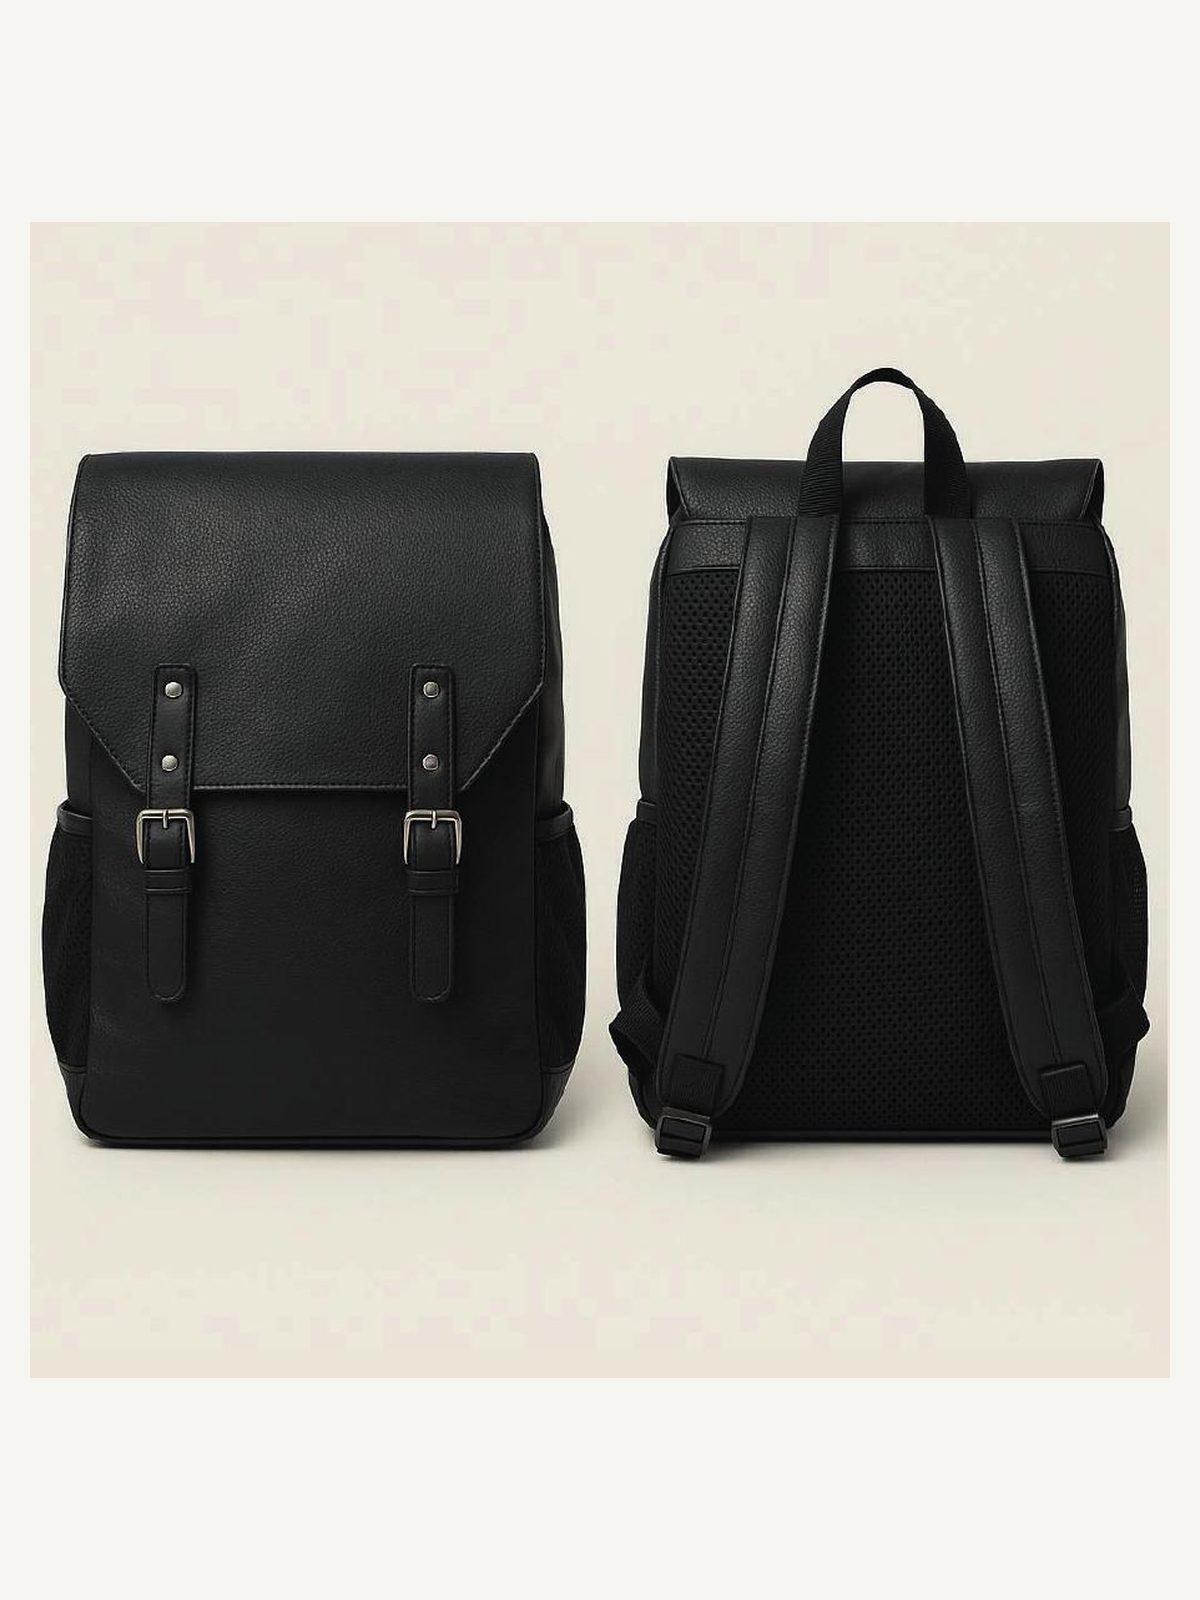
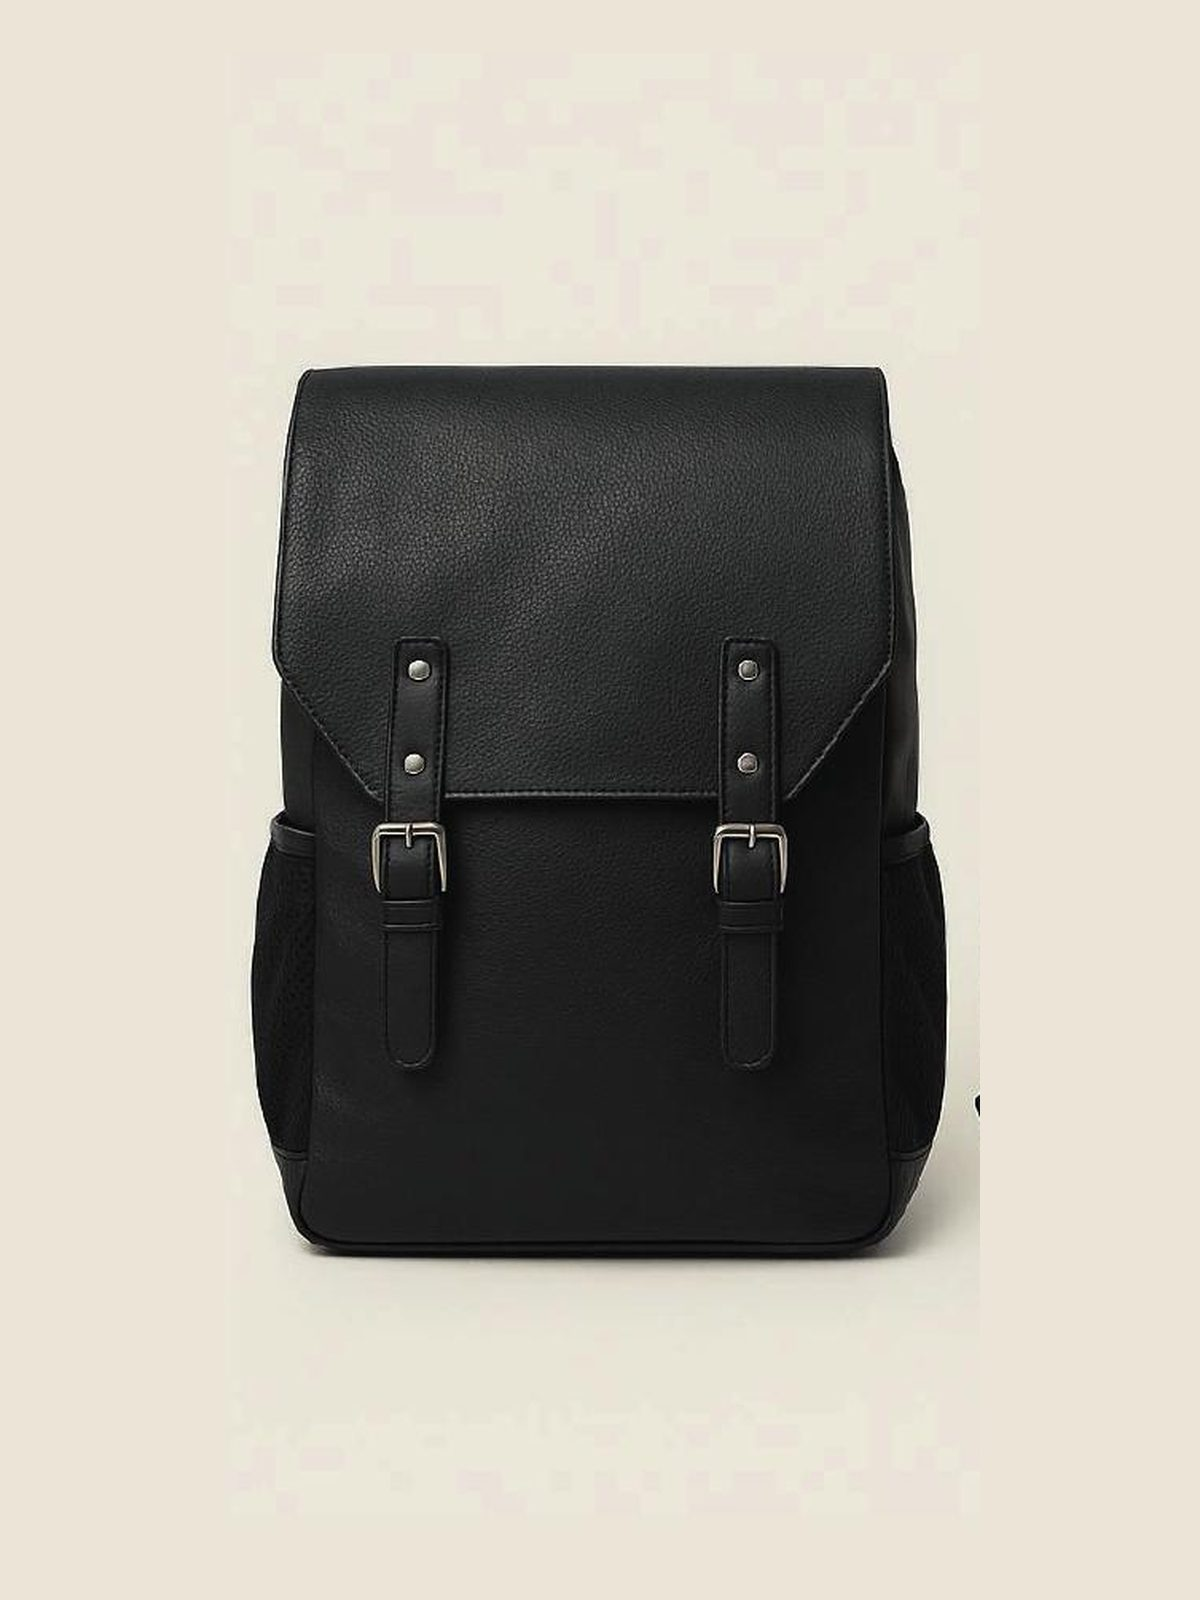
Corregir encuadre de tres accesorios

diff --git a/script.js b/script.js
@@ -1236,7 +1236,7 @@ Object.entries(winterImageAdditionsByProductId).forEach(([productId, photoNumber
   ])].sort((a, b) => a - b);
 });
 
-const IMAGE_ASSET_VERSION = "20260731-12";
+const IMAGE_ASSET_VERSION = "20260731-13";
 
 function versionImageSrc(src) {
   return `${src}?v=${IMAGE_ASSET_VERSION}`;

diff --git a/index.html b/index.html
@@ -154,6 +154,6 @@
     <p>BYE BYE — BYE BYE</p>
   </footer>
 
-  <script src="script.js?v=20260731-31"></script>
+  <script src="script.js?v=20260731-32"></script>
 </body>
 </html>
